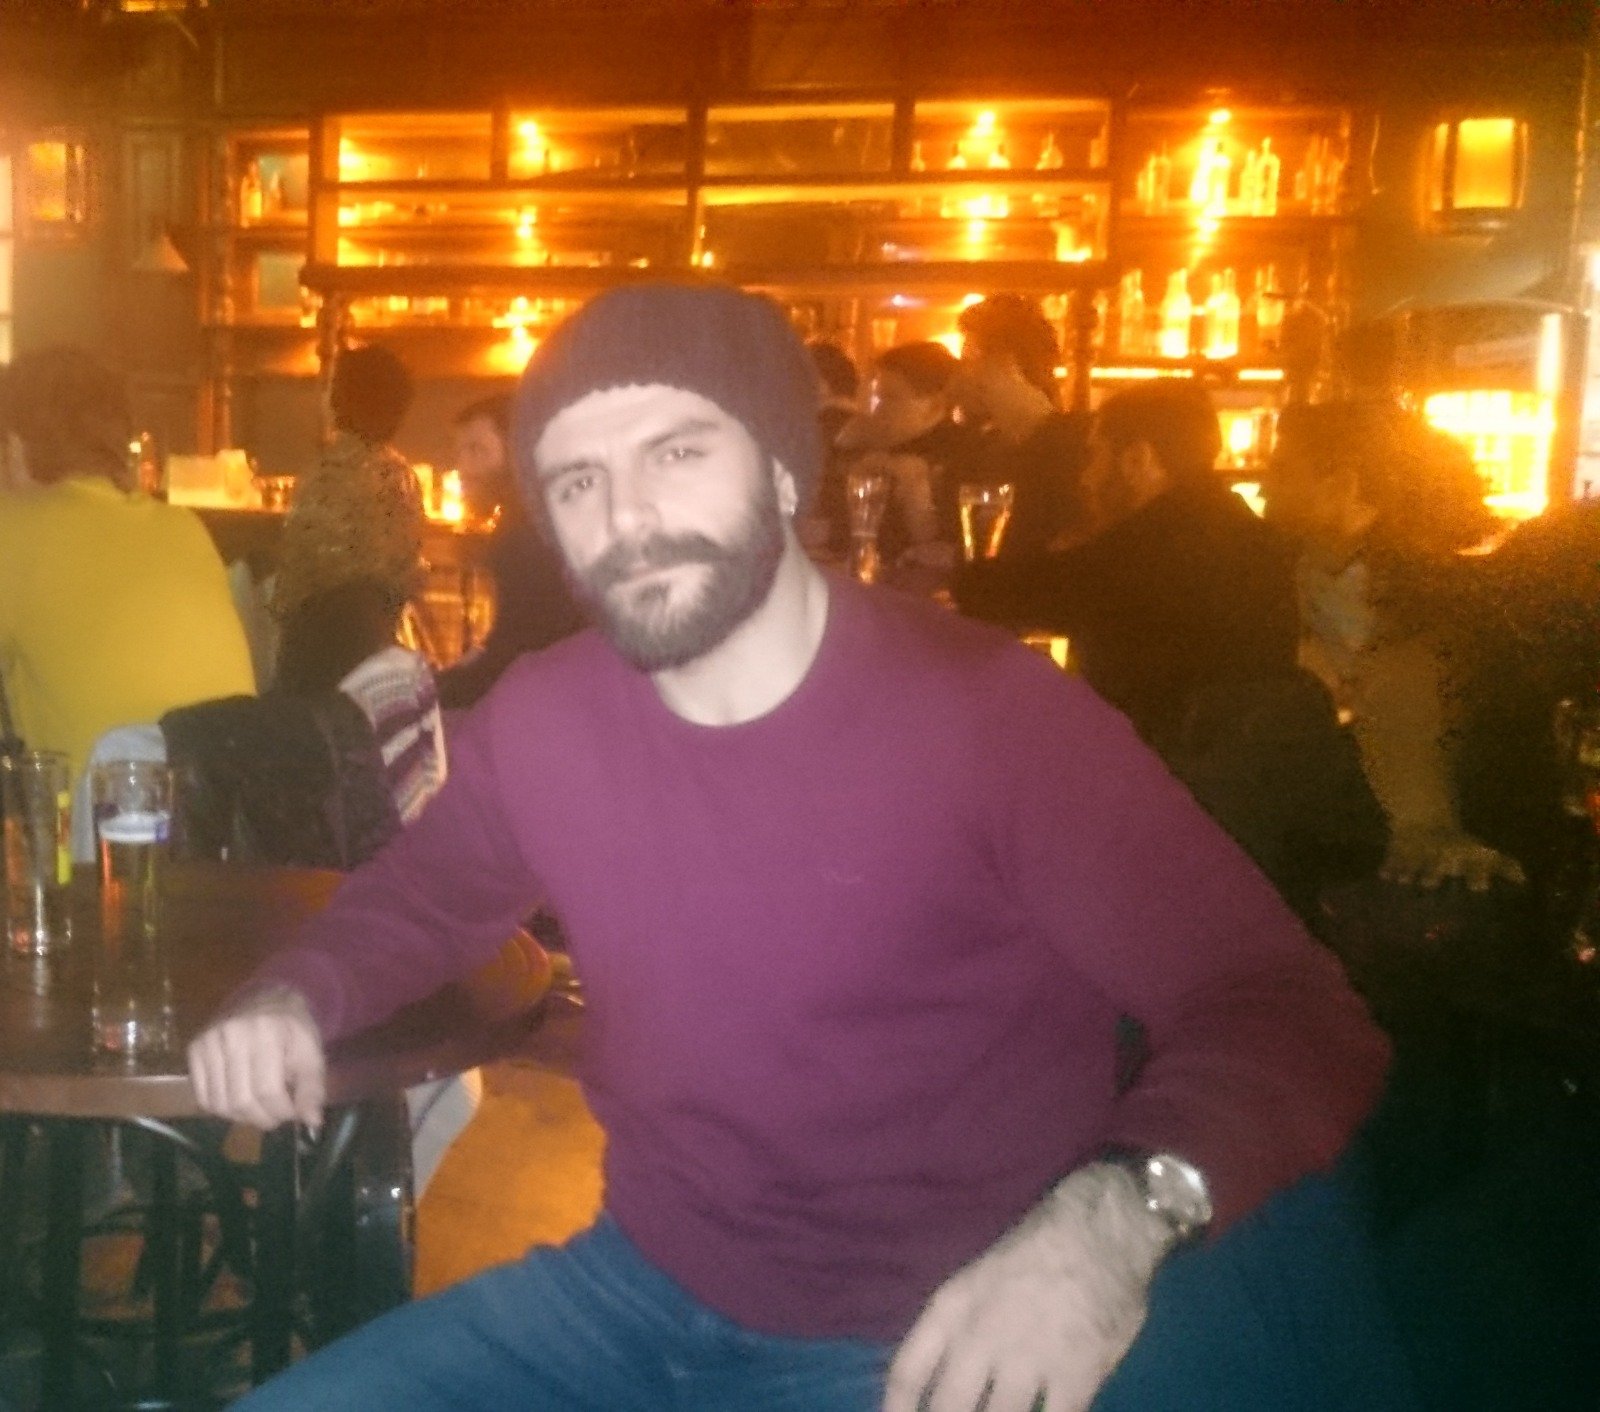
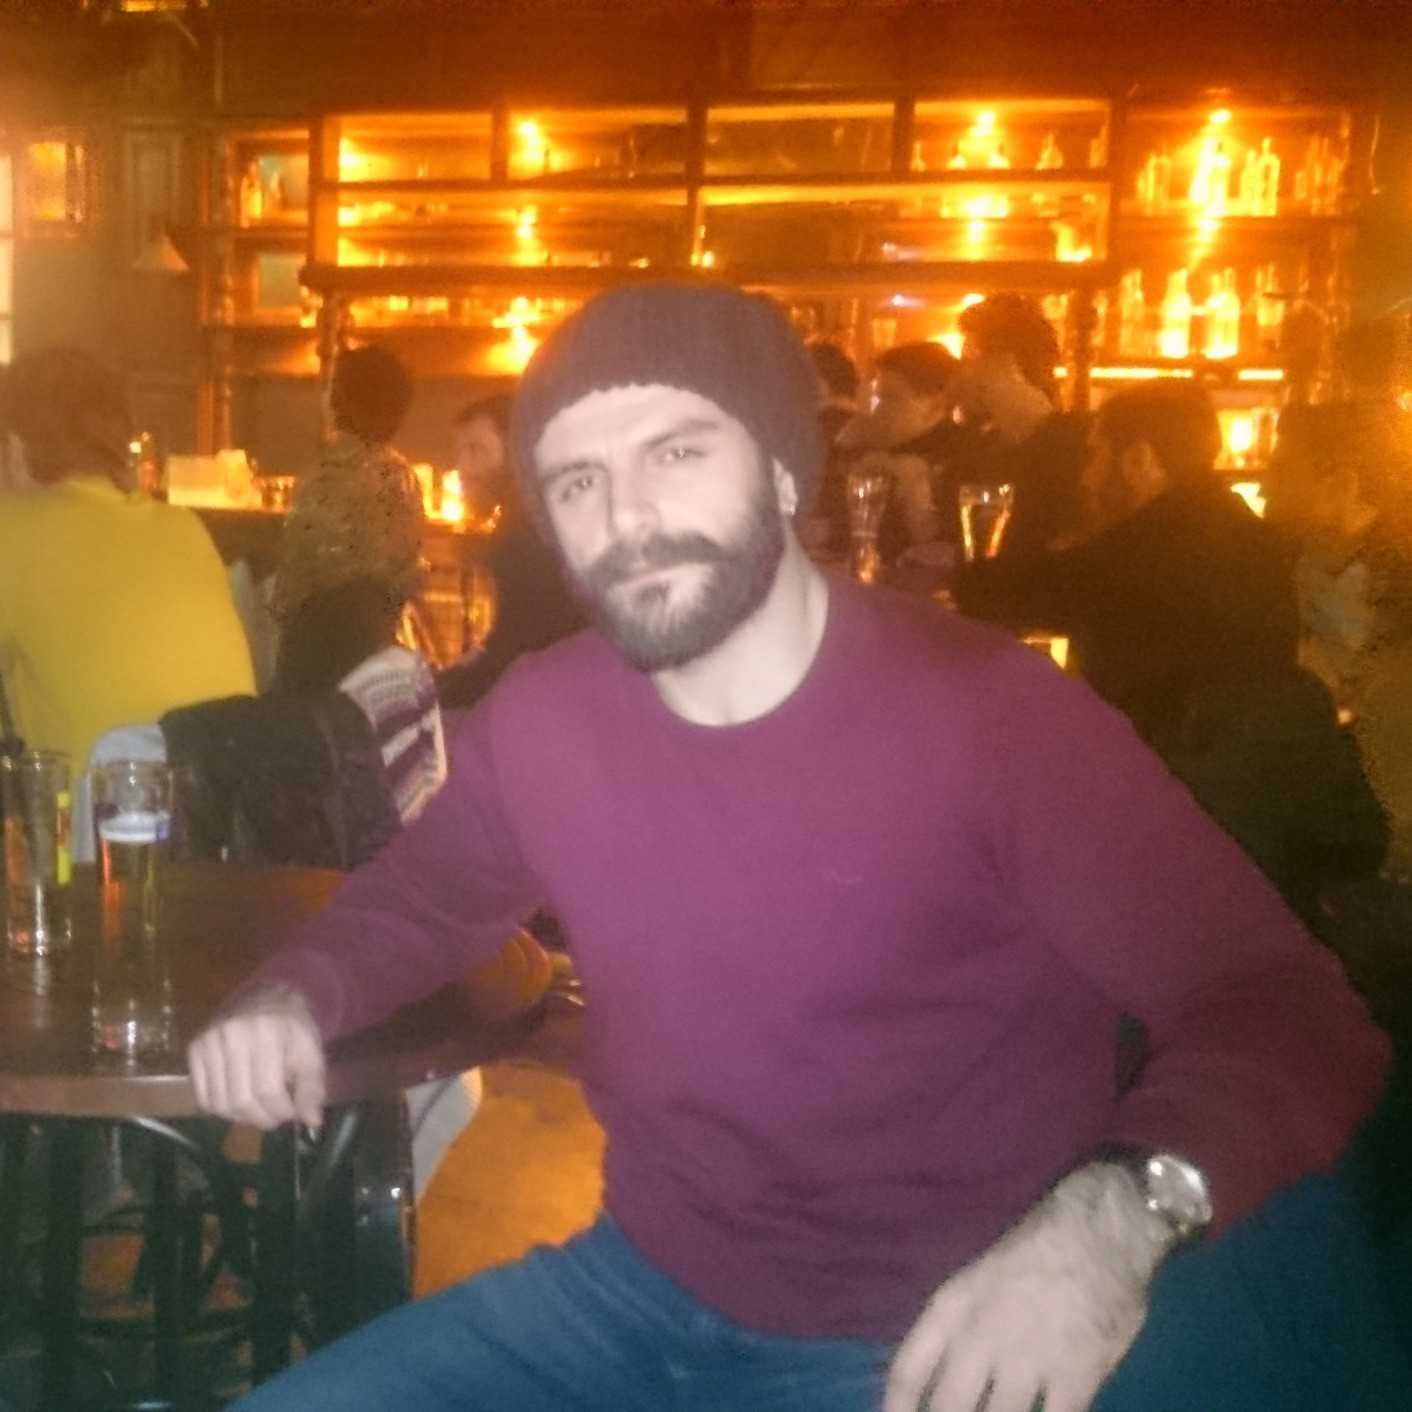
Mertcan added

diff --git a/index.html b/index.html
@@ -1690,7 +1690,23 @@
                                 </a>
                             </div>
                         </div>
-                    </div>                 
+                    </div>
+                    
+                    <div class="teammember">
+                        <div class="teamphotowrapper">
+                            <img class="teamphoto" src="images/team/mertcan.jpg" alt="" srcset="" />
+                        </div>
+                        <div class="teamduty">
+                            Mertcan Bolat
+                        </div>
+                        <div class="team_contact_div">
+                            <div class="team_contact_button">
+                                <a href="https://www.linkedin.com/in/mertcan-bolat-0467a9255//" target="_blank">
+                                    <img class="contact_icon" src="images/team/linkedin.svg" alt="" srcset="">
+                                </a>
+                            </div>
+                        </div>
+                    </div>
 
                     <div class="teammember">
                         <div class="teamphotowrapper">
